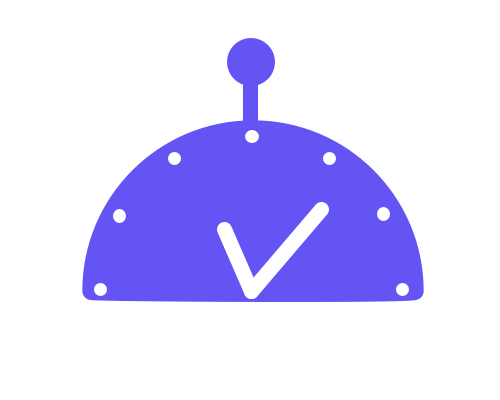
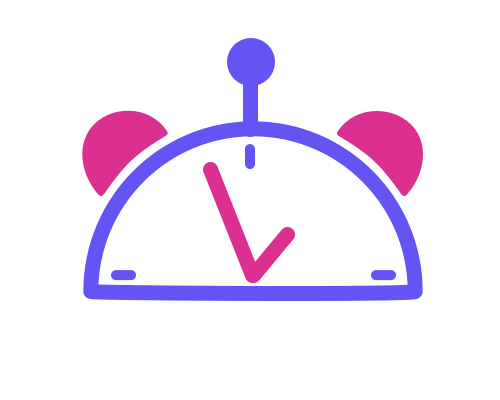
hello panel plus lots of polishing

Changed region(s): [[0.15, 0.27, 0.87, 0.78], [0.27, 0.75, 0.45, 0.78]]

diff --git a/index.html b/index.html
@@ -37,23 +37,23 @@
 
         <div class="landing-panel">
           <h2><span>We voted - what happens next?</span></h2>
-          <h3><span><b>BriefBot</b> is the best way to keep tabs on Brexit</span></h3>
+          <h3><span><b>BriefBot</b> is the best way to keep tabs on <span style="border-bottom: 6px solid #ea3899">Brexit</span></span></h3>
           <img class="landing-bot" src="img/landing-bot.png" alt="" />
           <img class="landing-bot-2" src="img/landing-bot-2.png" alt="" />
           <a class="typeform-share button" href="https://jeremyevans.typeform.com/to/ISfA7O" data-mode="1" target="_blank">Say hello</a>
-            <script>(function(){var qs,js,q,s,d=document,gi=d.getElementById,ce=d.createElement,gt=d.getElementsByTagName,id='typef_orm',b='https://s3-eu-west-1.amazonaws.com/share.typeform.com/';if(!gi.call(d,id)){js=ce.call(d,'script');js.id=id;js.src=b+'share.js';q=gt.call(d,'script')[0];q.parentNode.insertBefore(js,q)}id=id+'_';if(!gi.call(d,id)){qs=ce.call(d,'link');qs.rel='stylesheet';qs.id=id;qs.href=b+'share-button.css';s=gt.call(d,'head')[0];s.appendChild(qs,s)}})()</script>
+          <script>(function(){var qs,js,q,s,d=document,gi=d.getElementById,ce=d.createElement,gt=d.getElementsByTagName,id='typef_orm',b='https://s3-eu-west-1.amazonaws.com/share.typeform.com/';if(!gi.call(d,id)){js=ce.call(d,'script');js.id=id;js.src=b+'share.js';q=gt.call(d,'script')[0];q.parentNode.insertBefore(js,q)}id=id+'_';if(!gi.call(d,id)){qs=ce.call(d,'link');qs.rel='stylesheet';qs.id=id;qs.href=b+'share-button.css';s=gt.call(d,'head')[0];s.appendChild(qs,s)}})()</script>
           <a href="#about">
             <h4>
               Why should I?
-              <img class="downarrow" src="img/downarrow.png" alt="" />
+              <span><img class="downarrow" src="img/downarrow.png" alt="" /></span>
             </h4>
           </a>
         </div>
 
         <div class="panel timeline" id="about">
           <div class="max-width">
-            <h2><span style="font-weight:400;">Think Brexit's over?</span> It hasn't even begun.</h2>
-            <img class="scroll-reveal" src="img/articles.png" alt="" />
+            <h2><span style="font-weight:400;color:#777;">Think Brexit's over?</span> It hasn't even begun.</h2>
+            <img class="scroll-reveal" src="img/articles2.png" alt="" />
             <h3></h3>
             <p>
               You’ve got trade deals. Negotiations. Rewriting 80,000 pages of law. Spread over years, possibly decades.
@@ -71,7 +71,7 @@
 
         <div class="panel meet-briefbot">
           <div class="max-width">
-            <h2>Meet BriefBot</h2>
+            <h2><span style="font-weight:400;color:#777;">Meet</span> BriefBot</h2>
             <!-- <h3>It hasn't even begun.</h3> -->
             <div class="panel-half small">
               <img class="scroll-reveal" src="img/bubble-small.png" alt="" />
@@ -97,12 +97,12 @@
 
         <div class="panel features">
           <div class="max-width">
-            <h2>We got your back</h2>
+            <h2><span style="font-weight:400;color:#777;">Don't worry - </span>we got your back</h2>
             <div class="scroll-reveal">
-              <div class="float-left"><img src="img/time-bot-2.png" alt="" /></div>
-              <h3>Saving you time</h3>
+              <div class="float-left"><img src="img/time-bot.png" alt="" /></div>
+              <h3>Saving you <span style="color:#6354f3;">time</span></h3>
               <p>
-                We’re all <b class="highlight">busy</b>. Fortunately, BriefBot just loves spending time staying on top of the most important issue of our generation.
+                We’re all <b class="highlight grey">busy</b>. Fortunately, BriefBot just loves spending time staying on top of the most important issue of our generation.
               </p>
               <p>
                 No more endless link clicking or Google searching. Just the <b class="highlight"> stuff that matters to you</b>.
@@ -110,9 +110,9 @@
             </div>
             <div class="scroll-reveal">
               <div class="float-right"><img src="img/simple-bot.png" alt="" /></div>
-              <h3>Keeping it simple</h3>
+              <h3>Keeping it <span style="color:#6354f3;">simple</span></h3>
               <p>
-                Let’s be honest, Brexit is <b class="highlight">confusing</b>. That’s why BriefBot uses specialist expertise and cutting edge tech to break it down, step by step.
+                Let’s be honest, Brexit is <b class="highlight grey">confusing</b>. That’s why BriefBot uses specialist expertise and cutting edge tech to break it down, step by step.
               </p>
               <p>
                 BriefBot’s also pretty friendly and easy to get on with - delivering you political updates <b class="highlight">like you’ve never seen before</b>.
@@ -120,9 +120,9 @@
             </div>
             <div class="scroll-reveal">
               <div class="float-left"><img src="img/innocent-bot.png" alt="" /></div>
-              <h3>No funny business</h3>
+              <h3>No <span style="color:#6354f3;">funny business</span></h3>
               <p>
-                BriefBot <b class="highlight">doesn’t care</b> how you voted or even whether you voted. BriefBot’s entirely neutral and has no opinion, (or even the right to vote&nbsp;🤖).
+                BriefBot <b class="highlight grey">doesn’t care</b> how you voted or even whether you voted. BriefBot’s entirely neutral and has no opinion, (or even the right to vote&nbsp;🤖).
               </p>
               <p>
                 All BriefBot cares about is getting you informed about what’s going on - so you can <b class="highlight">make up your own mind</b>.
@@ -131,8 +131,14 @@
           </div>
         </div>
 
+        <div class="panel hello">
+          <h2>Ready to <a class="typeform-share button" href="https://jeremyevans.typeform.com/to/ISfA7O" data-mode="1" target="_blank"><img src="img/messenger.png" alt="" />say hello</a> yet?</h2>
+          <script>(function(){var qs,js,q,s,d=document,gi=d.getElementById,ce=d.createElement,gt=d.getElementsByTagName,id='typef_orm',b='https://s3-eu-west-1.amazonaws.com/share.typeform.com/';if(!gi.call(d,id)){js=ce.call(d,'script');js.id=id;js.src=b+'share.js';q=gt.call(d,'script')[0];q.parentNode.insertBefore(js,q)}id=id+'_';if(!gi.call(d,id)){qs=ce.call(d,'link');qs.rel='stylesheet';qs.id=id;qs.href=b+'share-button.css';s=gt.call(d,'head')[0];s.appendChild(qs,s)}})()</script>
+
+        </div>
+
         <div class="panel faqs">
-          <div class="max-width">
+          <div class="max-width-2">
             <h2>FAQs</h2>
             <div class="panel-group" id="accordion" role="tablist" aria-multiselectable="true">
               <div class="panel panel-default">

diff --git a/css/main.css b/css/main.css
@@ -303,11 +303,21 @@ a.typeform-share.button {
   font-weight: bold;
   color: #6354f3;
 }
+.highlight.pink {
+  color: #da368f;
+}
+.highlight.grey {
+  color: #555;
+}
 
 
 .max-width {
   margin: auto;
   max-width: 900px;
+}
+.max-width-2 {
+  margin: auto;
+  max-width: 750px;
 }
 .float-left {
   float: left;
@@ -351,6 +361,7 @@ a.typeform-share.button {
   border-radius: 30px;
   color: #6354f3;
   background: #eee;
+  transition: background 0.4s;
 }
 .navbar ul li:hover {
   background: #ddd;
@@ -391,22 +402,34 @@ a.typeform-share.button {
   text-decoration: none;
 }
 .landing-panel a:hover h4 {
-  opacity: 0.6;
+  opacity: 0.8;
 }
 .landing-panel h4 {
-  margin-top: 4em;
+  margin: 4em 0 2em 0;
   text-align: center;
   font-size: 1.4em;
   font-weight: 400;
   color: #6354f3;
 }
+.landing-panel h4 > span {
+  position: absolute;
+  display: block;
+  text-align: center;
+  left: 0;
+  right: 0;
+}
 .landing-panel h4 img {
   display: block;
   margin: 0.3em auto;
   width: 25px;
+  transition: margin 0.2s;
+}
+.landing-panel h4:hover img {
+  margin-top: 0.5em;
 }
 .landing-panel a.typeform-share.button {
   font-size: 2.5em;
+  transition: background 0.2s, color 0.2s;
 }
 .landing-panel a.typeform-share.button:hover {
   color: white;
@@ -478,9 +501,34 @@ font-size: 18px;
 .panel.features h3 {
   margin-top: 4em;
   text-align: left;
+  color: #777;
 }
 .panel.features img {
   /*margin-top: 5.5em;*/
+}
+.panel.hello {
+  padding: 2.7em 1em 0 1em;
+}
+.panel.hello h2 {
+  margin: 0;
+}
+.panel.hello a.button {
+  font-size: 1em;
+  padding: 0 0.3em;
+  margin-top: -0.25em;
+  border-color: #ea3899;
+}
+.panel.hello a.button:hover {
+  background: none;
+  border-color: #6354f3;
+}
+.panel.hello a.button img {
+  width: 1em;
+  margin: -0.2em 0.2em 0 -0.05em;
+}
+
+.panel.faqs {
+  background: #eee;
 }
 .panel.faqs h4 {
   text-align: left;
